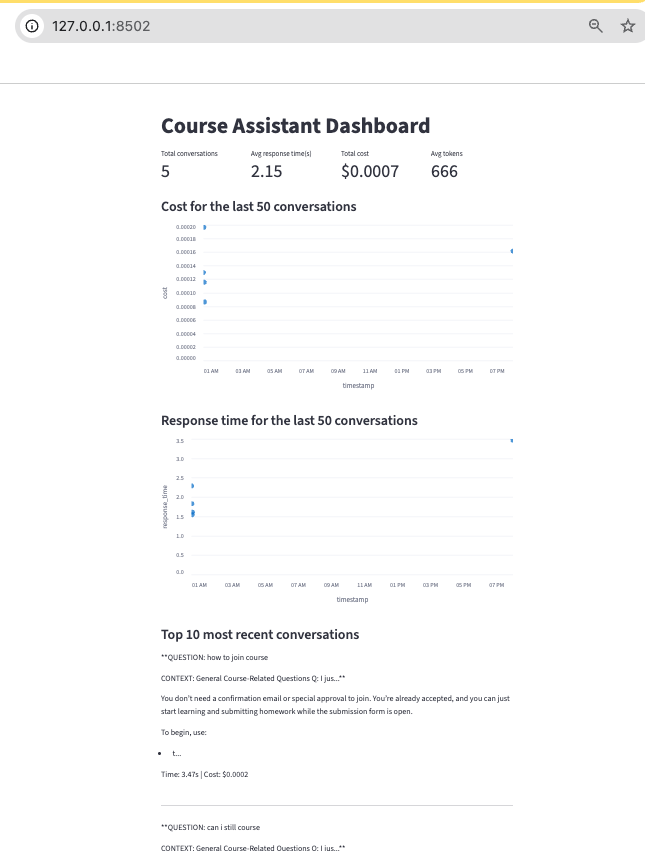
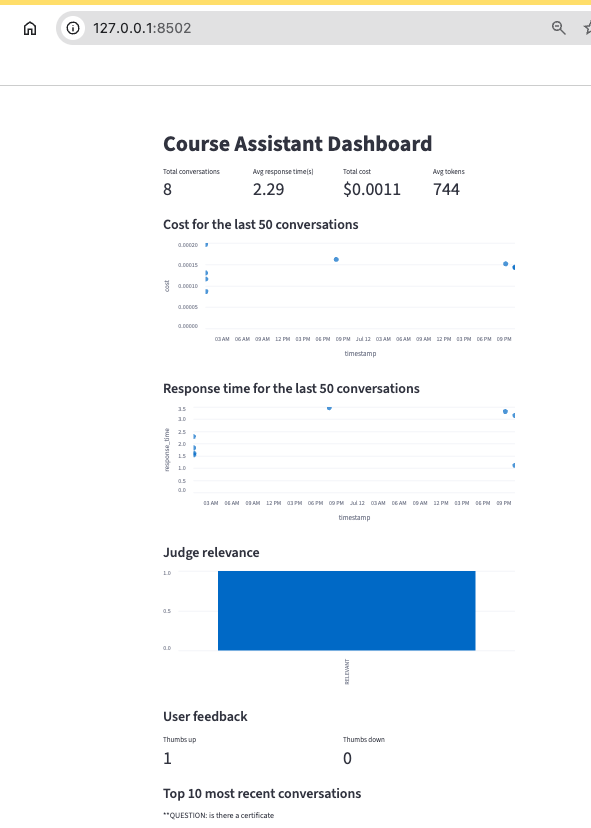
finish week 5: monitoring with grafana and streamlit app

diff --git a/README.md b/README.md
@@ -1,14 +1,32 @@
 # llm_zoomcamp
 2026 cohort of the [LLM Zoomcamp ran by DataTalksClub](https://github.com/DataTalksClub/llm-zoomcamp/tree/main)
 
+<table>
+  <tr>
+    <td width="300" height="200"><img src="screenshots/week5_make_chat.png" width="300" height="200"></td>
+    <td width="300" height="200"><img src="screenshots/week5_make_dashboard.png" width="300" height="200"></td>
+  </tr>
+  <tr>
+    <td width="300">Chat interface</td>
+    <td width="300">Streamlit dashboard for the logs</td>
+  </tr>
+  <tr>
+    <td colspan="2" width="800" height="200" align="center"><img src="screenshots/week5_grafana_dashboard.png" width="300" height="200"></td>
+  </tr>
+  <tr>
+    <td colspan="4" width="800" align="center">Grafana monitoring dashboard, tracks response time, cost, tokens, and which models we use. </td>
+  </tr>
+</table>
+
+
+
 ## Week 1: Agentic RAG
 * persistent knowledge base (`sqlite`) & indexing 
 * agentic RAG
     * function calling
     * agentic loops
-    * frameworks for running agentic loops 
 
-## Week 2: * vector search with `pgvector`
+## Week 2: vector search with `pgvector`
 * using `sentence_transformers` and `onnx` models
 
 ## Week 3: Workflow orchestration with Kestra
@@ -24,7 +42,14 @@
   - 2. tool-recall trajectory
 
 ## Week 5: Monitoring
-* 
+* Build a streamlit app to:
+    * Chat with LLM - `make chat` 
+    * Visualise the data we're collecting - `make dashboard`
+* Use python to create a PostgreDB and the logs in a Postgres DB, which is then fed to Grafana
+* Collect user feedbacks & use LLM-as-a-judge for relevancy - `judge.py`
+* Create synthetic data to show what the streamlit dashboard would look like based on those stored in Postgre - `generate_synthetic_data.py`
+* Display dashboard in grafana
+* See `Makefile` for shortcuts
 
 ## Setup 
 ```

diff --git a/05_monitoring/README.md b/05_monitoring/README.md
@@ -5,7 +5,7 @@
 * Use python to create a PostgreDB and the logs in a Postgres DB, which is then fed to Grafana
 * Collect user feedbacks & use LLM-as-a-judge for relevancy - `judge.py`
 * Create synthetic data to show what the streamlit dashboard would look like based on those stored in Postgre - `generate_synthetic_data.py`
-* Display dashboard in grafana
+* Display dashboard in grafana - `admin` / `admin`
 * See `Makefile` for shortcuts
 
 